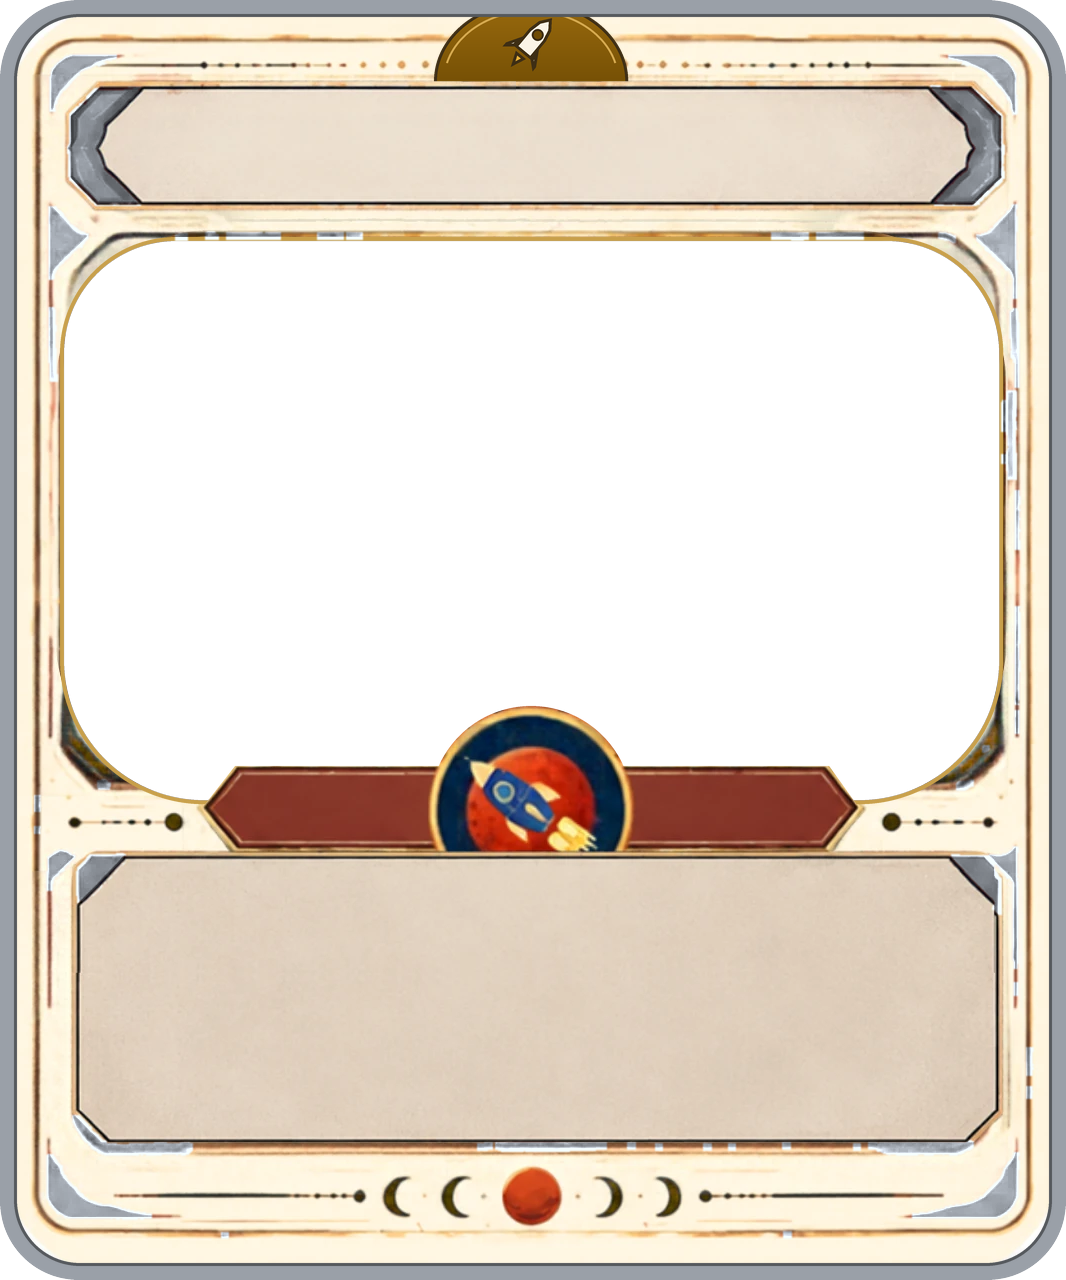
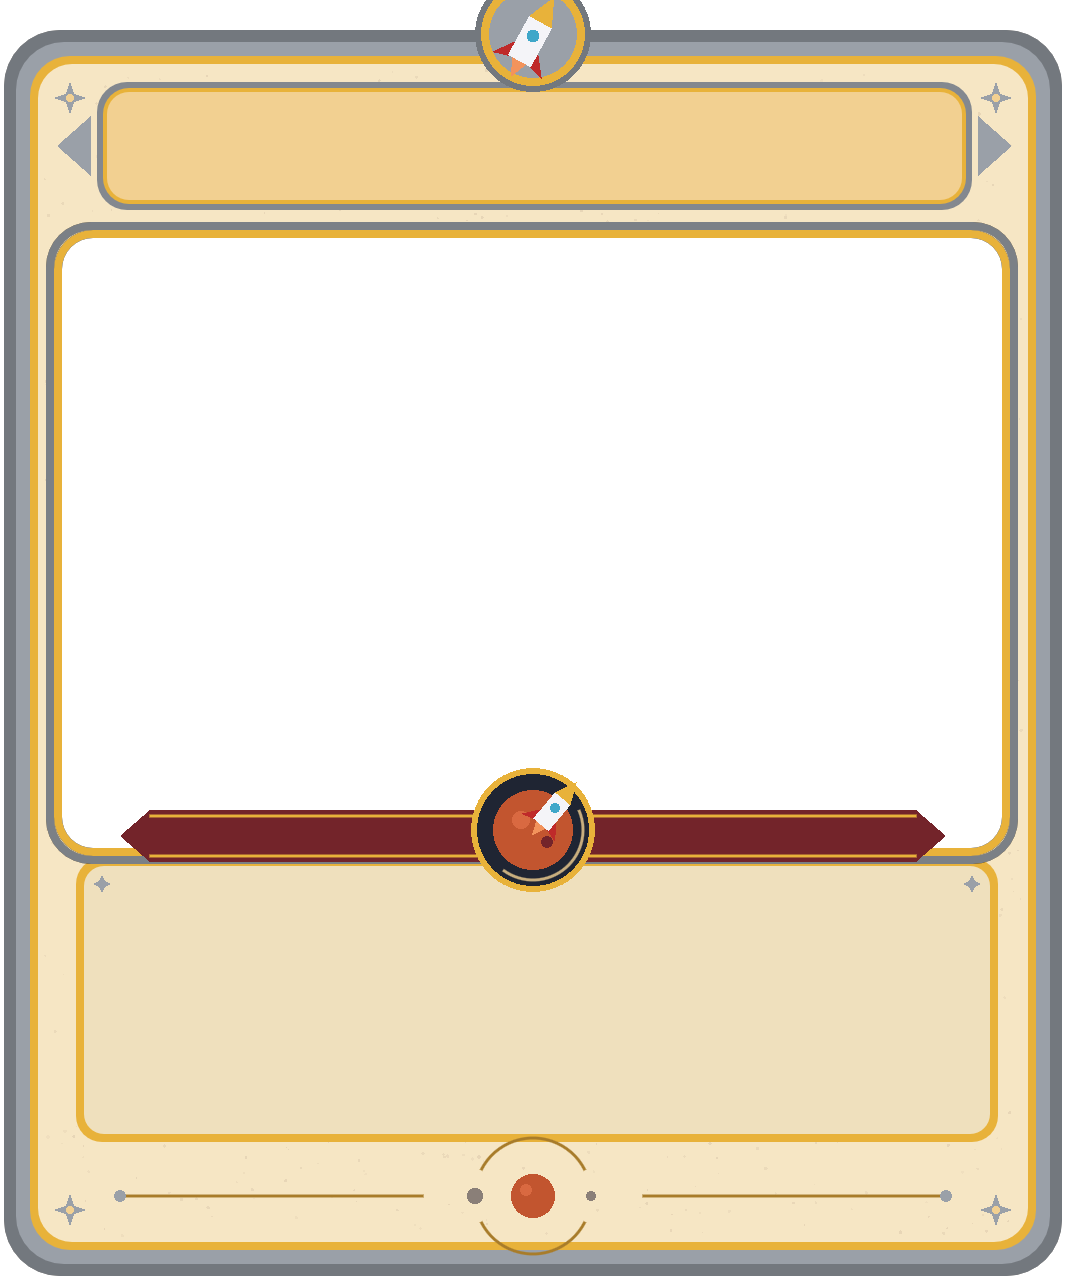
Design 05: molduras das cartas feitas do zero por código; créditos da Junegull e da moldura sem CONFERIR

diff --git a/design/05-telas/moldura-carta.md b/design/05-telas/moldura-carta.md
@@ -1,5 +1,7 @@
 # Moldura das cartas
 
+Feita pelo time do zero, por código: [moldura-carta.gd](moldura-carta.gd) (Godot). Não usa nenhum modelo de fora.
+
 4 molduras, uma por raridade. Mudam o símbolo do medalhão no topo e a cor da borda e dos enfeites, com as cores de raridade do [cores-das-coisas.csv](../04-cores-das-coisas/cores-das-coisas.csv):
 
 | Raridade (`cartas.csv`) | Arquivo | Símbolo | Cor da borda |
